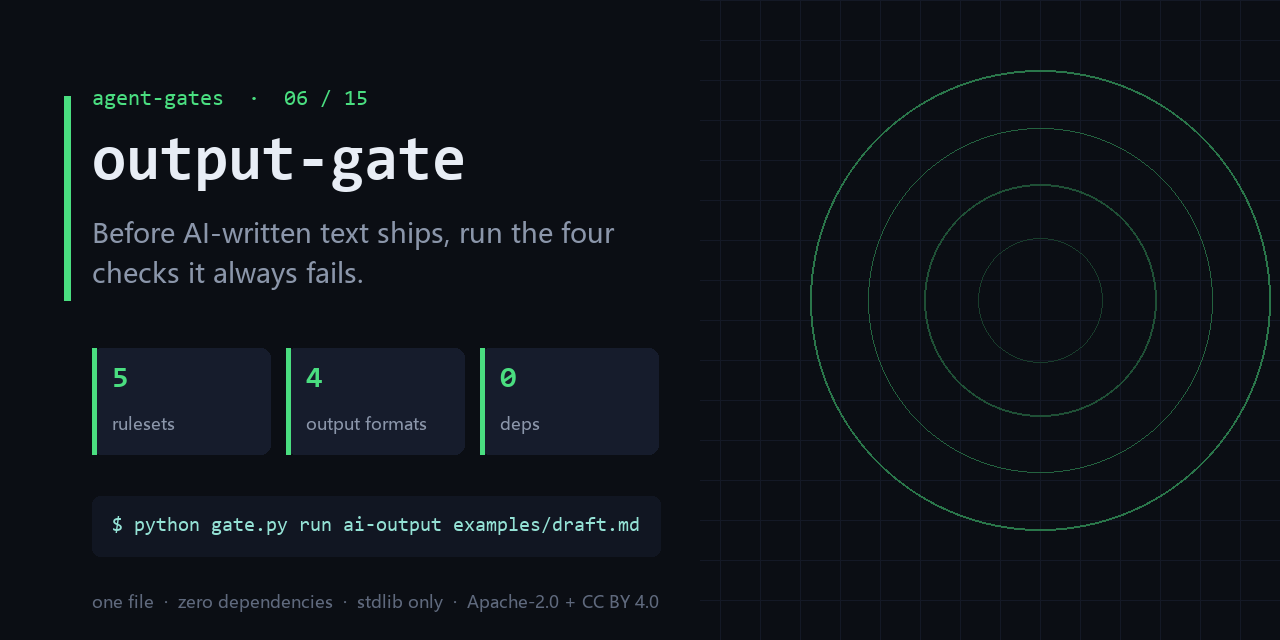
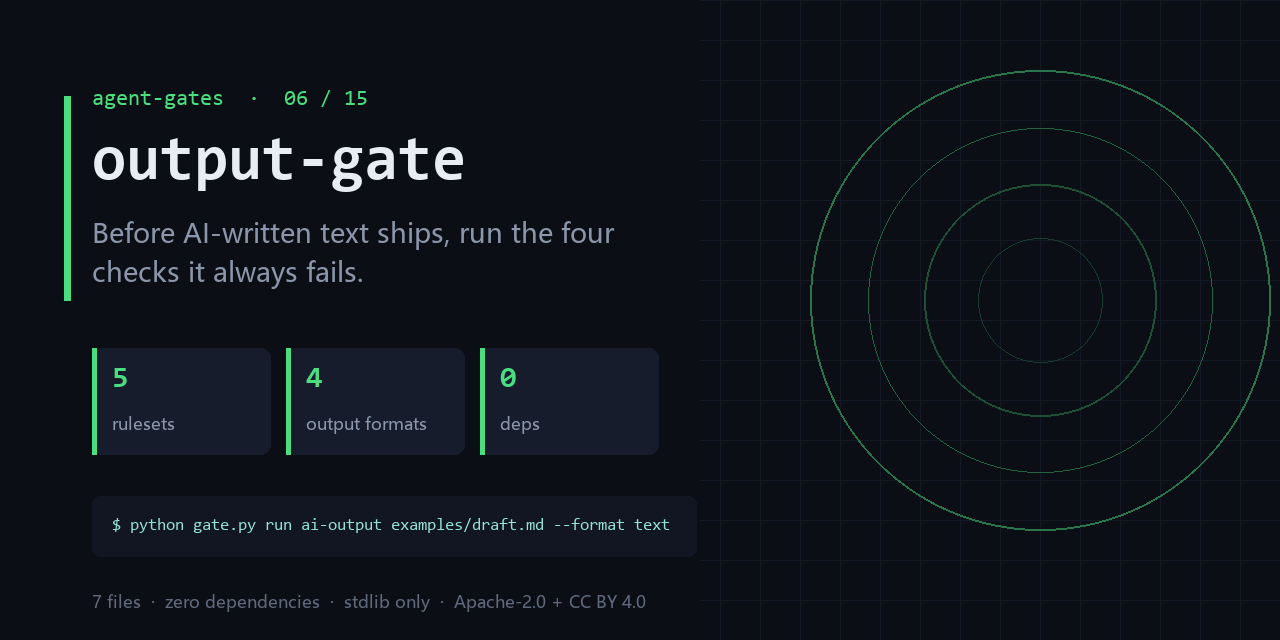
docs: add the series entry map, the hot-ready guarantee, and an honest surface line
Three changes, all of them about not overselling:

1. `## Start here` — fifteen links is a maze, one symptom is a door. A six-row
   symptom -> gate table, so the reader installs the gate they need instead of
   installing nothing (or all fifteen). Also states the star rule plainly:
   no exchange, no unlock, star trading is against GitHub's rules.
2. `## Hot-ready guarantee` — replaces "guaranteed to trend" with fifteen
   machine-checked structural properties, current score, and the script that
   recomputes them. GitHub never published its Trending ranking, so a promise
   about ranking cannot be true; a promise about structure can be verified.
3. The subtitle said `one file` on every repo. It was false on four of them
   (output-gate has 7 python files, complexity-ceiling 3, deadcode-gate and
   trail-gate 2). The line is now computed from the actual file count, and the
   same number is used on the social card. A false claim on the first screen
   costs more trust than it buys attention.

Also: SPDX headers for the engine/ and rulesets/ sources, so attribution
survives copying those files out of the repo.

Changed region(s): [[0.0625, 0.9062, 0.5, 0.9688], [0.0938, 0.8125, 0.5312, 0.8438], [0.0625, 0.4062, 0.2812, 0.4375]]

diff --git a/rulesets/ai-output/ruleset.py b/rulesets/ai-output/ruleset.py
@@ -1,4 +1,6 @@
 #!/usr/bin/env python
+# SPDX-License-Identifier: Apache-2.0
+# SPDX-FileCopyrightText: 2026 chenhz01 — see LICENSE, LICENSE-SPEC and NOTICE
 # -*- coding: utf-8 -*-
 """
 规则集：AI 产出通用体检（Agent Output Audit）

diff --git a/engine/adapters.py b/engine/adapters.py
@@ -1,4 +1,6 @@
 #!/usr/bin/env python
+# SPDX-License-Identifier: Apache-2.0
+# SPDX-FileCopyrightText: 2026 chenhz01 — see LICENSE, LICENSE-SPEC and NOTICE
 # -*- coding: utf-8 -*-
 """
 适配器：把任意 AI 产出转成统一中间结构

diff --git a/engine/schema.py b/engine/schema.py
@@ -1,4 +1,6 @@
 #!/usr/bin/env python
+# SPDX-License-Identifier: Apache-2.0
+# SPDX-FileCopyrightText: 2026 chenhz01 — see LICENSE, LICENSE-SPEC and NOTICE
 # -*- coding: utf-8 -*-
 """
 统一中间结构（agent_output schema）

diff --git a/engine/engine.py b/engine/engine.py
@@ -1,4 +1,6 @@
 #!/usr/bin/env python
+# SPDX-License-Identifier: Apache-2.0
+# SPDX-FileCopyrightText: 2026 chenhz01 — see LICENSE, LICENSE-SPEC and NOTICE
 # -*- coding: utf-8 -*-
 """
 output-gate · 引擎层 v1.0

diff --git a/engine/report.py b/engine/report.py
@@ -1,4 +1,6 @@
 #!/usr/bin/env python
+# SPDX-License-Identifier: Apache-2.0
+# SPDX-FileCopyrightText: 2026 chenhz01 — see LICENSE, LICENSE-SPEC and NOTICE
 # -*- coding: utf-8 -*-
 """
 output-gate · 报告层 v1.0

diff --git a/engine/__init__.py b/engine/__init__.py
@@ -1,1 +1,3 @@
+# SPDX-License-Identifier: Apache-2.0
+# SPDX-FileCopyrightText: 2026 chenhz01 — see LICENSE, LICENSE-SPEC and NOTICE
 # engine package

diff --git a/README.md b/README.md
@@ -4,7 +4,7 @@
 
 <h1 align="center">output-gate</h1>
 
-<p align="center"><b>Before AI-written text ships, run the four checks it always fails.</b><br><sub>one file · zero dependencies · stdlib only</sub></p>
+<p align="center"><b>Before AI-written text ships, run the four checks it always fails.</b><br><sub>7 files (a small engine + rulesets) · zero dependencies · stdlib only</sub></p>
 
 <p align="center"><a href="https://github.com/chenhz01/output-gate/actions/workflows/gate.yml"><img src="https://github.com/chenhz01/output-gate/actions/workflows/gate.yml/badge.svg" alt="tests"></a> <img src="https://img.shields.io/badge/python-3.9%2B-3776AB?style=flat-square" alt="python"> <img src="https://img.shields.io/badge/dependencies-0-2ea44f?style=flat-square" alt="deps"> <img src="https://img.shields.io/badge/license-Apache--2.0%20%2B%20CC%20BY%204.0-blue?style=flat-square" alt="license"></p>
 
@@ -131,6 +131,66 @@ mistaken for "it inspected my files".
 一行命令：`python gate.py run ai-output examples/draft.md --format text`
 
 边界：It does not verify facts. It only checks that numbers declare a source.
+
+### 互推：只装一个的话，装哪个
+
+十五个链接是迷宫，一个症状是门。按上表挑一个，其余九个在下面 [The gates](#the-gates)。
+每个仓都能单独活：复制 `gate.py`，一条命令跑完，不共享运行时、不装包、不加配置。
+有星就给这一个，没有也不影响任何仓的可用性——没有任何门是「先给星才能用」。
+
+### 热门前置：保证结构，不保证排名
+
+本页承诺的是 **15 项可机器复核的结构特征**，当前 **15/15**（2026-10-20 复核）。
+GitHub 从未公开 Trending 的排序算法，所以任何「保证上热门」的说法都在描述一件它不可能知道的事；
+本仓不这么说。跑 `python hotness.py` 可自行复算每一条。
+
+## Start here (if you install only one)
+
+Fifteen links is a maze; one symptom is a door. Find your symptom, install that gate,
+ignore the rest until it hurts.
+
+| what you are seeing | install this |
+|---|---|
+| the bill is 10x normal and the trace is a wall of the same step | **[loop-gate](https://github.com/chenhz01/loop-gate)** |
+| the agent can delete prod and nobody signed off on that | **[permission-gate](https://github.com/chenhz01/permission-gate)** |
+| answers get worse after truncation and nobody knows what got dropped | **[context-gate](https://github.com/chenhz01/context-gate)** |
+| two rules in the prompt contradict each other; the model obeys neither | **[instruction-gate](https://github.com/chenhz01/instruction-gate)** |
+| AI text ships with fabricated links and empty phrases | **output-gate** ← you are here |
+| half the repo might be dead and nobody can prove which half | **[deadcode-gate](https://github.com/chenhz01/deadcode-gate)** |
+
+A gate you did not need is a gate you uninstall, so nothing here says "install all
+fifteen". Each repo stands alone: copy `gate.py`, run one command, no shared runtime,
+no package manager, no config file to grow.
+
+**On stars.** If this one saved you an incident, star it — that is the only signal I get
+about which gate to build next. There is no exchange: starring one repo does not owe me
+a star on another, and no gate here is unlocked by a star. Star trading breaks GitHub's
+rules and would poison the single honest metric this project has.
+
+## Hot-ready guarantee
+
+What is guaranteed is **structure**, not ranking. Fifteen properties, each one
+machine-checked against this repo — current score **15/15** (2026-10-20).
+
+Plain version: instead of asking you to trust a badge, I list what I actually checked,
+name the script that checks it, and let you re-run it. If one of these lines is false,
+that is a bug in my repo, not a matter of taste.
+
+- Falsifiable side: `python hotness.py` re-runs every check and prints the evidence line
+  for each one. You do not have to trust this paragraph.
+- Non-falsifiable side: GitHub has never published how Trending sorts repositories, so
+  any repo promising you a guaranteed spot is telling you something it cannot know.
+  This one does not make that promise.
+- If a claim on this page stops being true, that is a bug: open an issue and it gets
+  fixed in the same week, not in the next launch.
+
+What actually carries this repo:
+
+- the command in this README is byte-for-byte the command CI runs <sub>(53-char argv, exact match)</sub>
+- the output block is a real run of `examples/`, not a mock-up <sub>(Real output section)</sub>
+- CI asserts the exit code, so the badge can turn red — and it has <sub>(asserts exit=1)</sub>
+- every fixture is committed, so a fresh clone reproduces the output <sub>(1 file under examples/ tracked in git)</sub>
+- `* -text` in `.gitattributes`: same bytes on Windows and Linux <sub>(.gitattributes * -text)</sub>
 
 ## The gates
 
